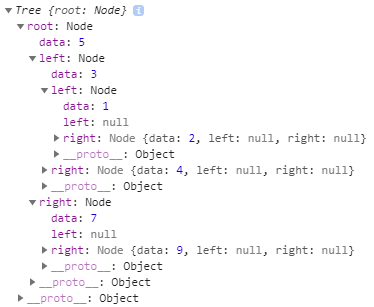
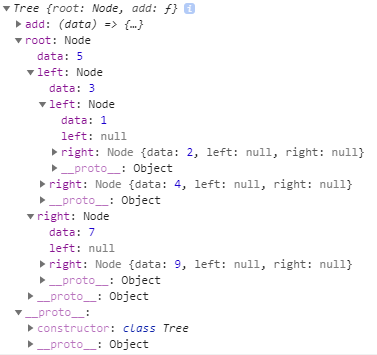
GitBook: [master] 50 pages and 3 assets modified

diff --git a/cs/etc/tree.md b/cs/etc/tree.md
@@ -27,35 +27,35 @@ class Tree {
     } else {
       this.root = null;
     }
-  }
 
-  add(data) {
-    const node = new Node(data);
+    const _insert = (root, node) => {
+      if (root === null) {
+        return node;
+      } else if (node.data < root.data) {
+        root.left = _insert(root.left, node);
+        return root;
+      } else if (node.data > root.data) {
+        root.right = _insert(root.right, node);
+        return root;
+      }
 
-    if (this.root === null) {
-      this.root = node;
-      return;
-    }
-
-    if (node.data < this.root.data) {
-      this.root.left = this._insert(this.root.left, node);
-    } else {
-      this.root.right = this._insert(this.root.right, node);
-    }
-  }
-
-  _insert(root, node) {
-    if (root === null) {
-      return node;
-    } else if (node.data < root.data) {
-      root.left = this._insert(root.left, node);
       return root;
-    } else if (node.data > root.data) {
-      root.right = this._insert(root.right, node);
-      return root;
-    }
+    };
 
-    return root;
+    this.add = (data) => {
+      const node = new Node(data);
+
+      if (this.root === null) {
+        this.root = node;
+        return;
+      }
+
+      if (node.data < this.root.data) {
+        this.root.left = _insert(this.root.left, node);
+      } else {
+        this.root.right = _insert(this.root.right, node);
+      }
+    };
   }
 }
 
@@ -76,7 +76,7 @@ console.log(tree);
 
 위의 내용을 그림으로 표현하면 아래의 그림과 같이 됩니다.
 
-![](../../.gitbook/assets/image%20%289%29.png)
+![](../../.gitbook/assets/image%20%2810%29.png)
 
 
 
